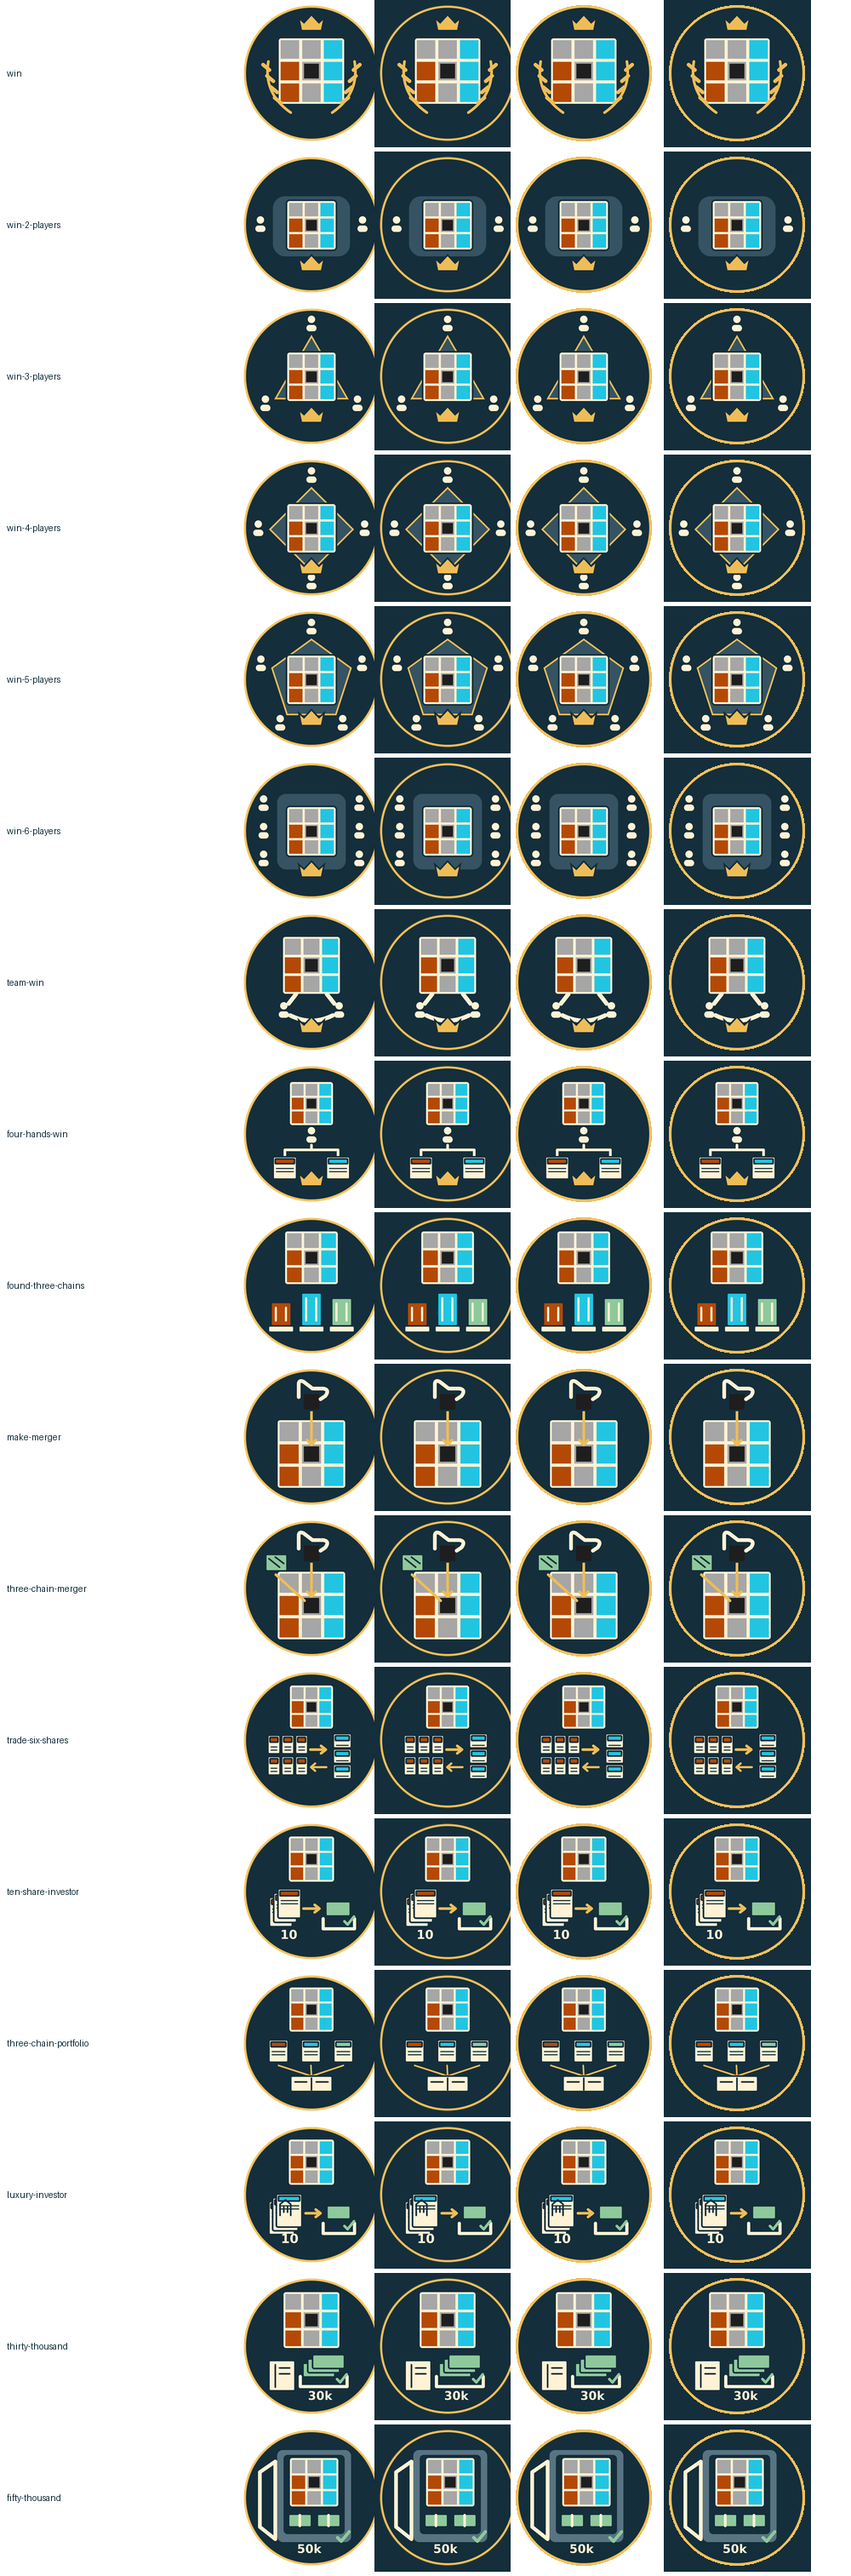
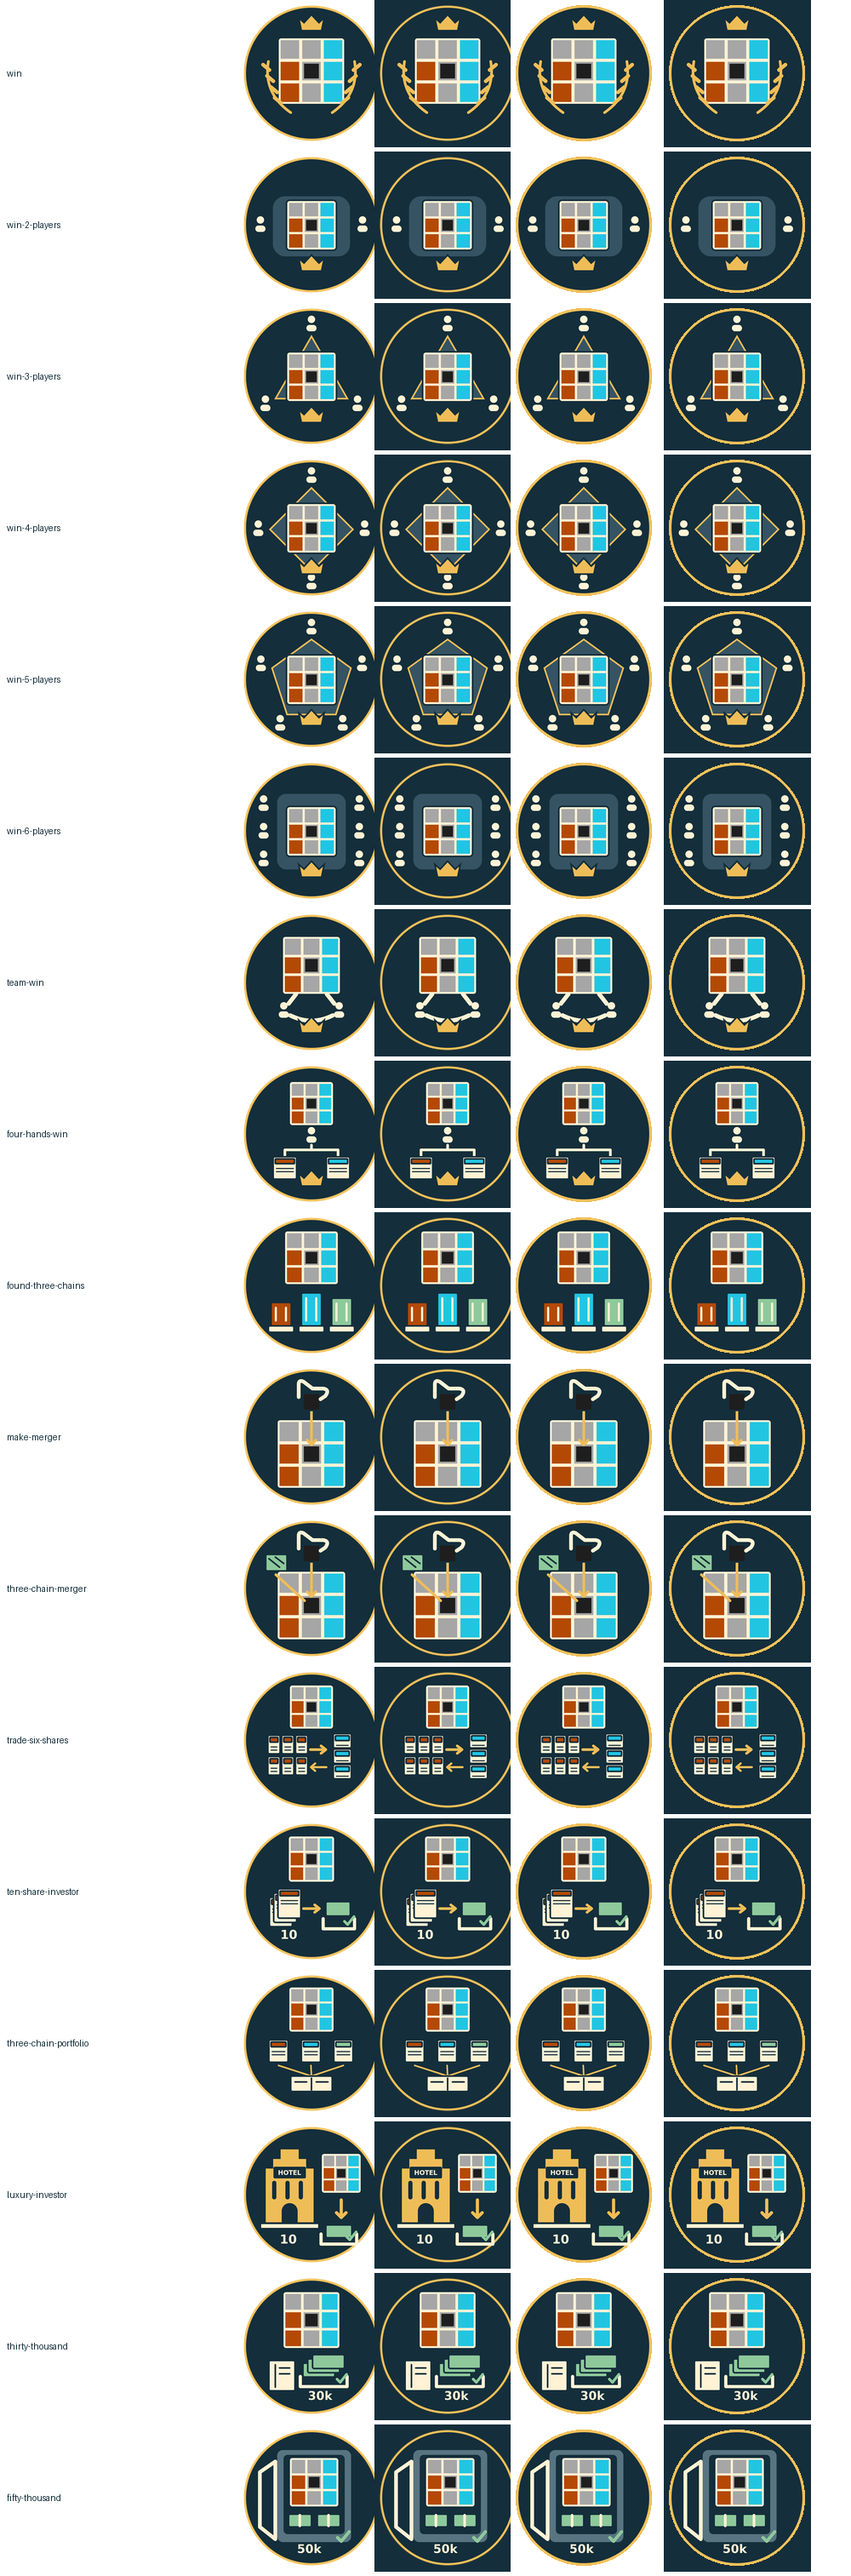
Distinguish luxury achievement with premium hotel and fully decode art checks

diff --git a/scripts/generate-achievement-art.py b/scripts/generate-achievement-art.py
@@ -93,10 +93,15 @@ ART['three-chain-portfolio'] = board(90, 27, 76)
 for x,c in [(48,ORANGE),(109,CYAN),(170,GREEN)]:
     ART['three-chain-portfolio'] += cert(x, 122, c, 36, 42) + path(f'M{x+18} 170 L128 190', GOLD, 3)
 ART['three-chain-portfolio'] += rect(89, 190, 78, 29, CREAM) + path('M128 194 V216 M97 201 H119 M137 201 H159', NAVY, 3)
-ART['luxury-investor'] = board(89, 28, 78)
-for i in range(3):
-    ART['luxury-investor'] += cert(48+i*7, 141-i*7, CYAN, 48, 62)
-ART['luxury-investor'] += path('M69 167 V146 L79 138 89 146 V167 M76 151 V161 M83 151 V161', NAVY, 3) + label('10', 88, 219) + arrow(117, 163, 28) + rect(157, 149, 44, 25, GREEN) + tray(150, 196, 59)
+# One monumental premium hotel (either luxury chain), not two required chains.
+# Stepped architecture dominates at 32px; no certificate-stack silhouette or crown.
+ART['luxury-investor'] = '<g data-premium-hotel="single"><path d="M40 182 V77 H54 V59 H68 V41 H106 V59 H120 V77 H134 V182Z" fill="'+GOLD+'" stroke="'+NAVY+'" stroke-width="4"/>'
+ART['luxury-investor'] += rect(58, 77, 58, 19, NAVY, 1) + label('HOTEL', 87, 91, 12)
+for x in [58, 83, 108]:
+    ART['luxury-investor'] += path(f'M{x} 106 V133', NAVY, 8)
+ART['luxury-investor'] += f'<path d="M72 182 V159 a15 15 0 0 1 30 0 V182Z" fill="{NAVY}"/>' + rect(32, 182, 110, 10, CREAM, 1) + '</g>'
+ART['luxury-investor'] += board(151, 55, 66) + path('M184 138 V171 m-9 -9 9 9 9 -9', GOLD, 6)
+ART['luxury-investor'] += label('10', 85, 220, 23) + rect(155, 185, 49, 24, GREEN) + tray(146, 216, 67)
 ART['thirty-thousand'] = board(79, 30, 98) + rect(48, 155, 49, 57, CREAM) + path('M60 163 V205 M68 169 H87 M68 180 H87', NAVY, 3)
 for i in range(3):
     ART['thirty-thousand'] += rect(112+i*9, 160-i*8, 60, 26, GREEN)

diff --git a/docs/admin/achievement-art/README.md b/docs/admin/achievement-art/README.md
@@ -37,8 +37,11 @@ licences); no font file is redistributed. The SVGs are editable source exports.
 - Trade: exactly six source certificates and three survivor certificates,
   with reciprocal exchange arrows (2:1 disposal, not optional stock swaps).
 - Final sales: certificates flow to a checked settlement tray. Diversification
-  instead joins three certificate types into one closing ledger. Luxury uses a
-  single premium hotel certificate stack, not a requirement for both chains.
+  instead joins three certificate types into one closing ledger. Luxury instead
+  has one dominant stepped premium hotel with tall windows and an arched entrance,
+  a separate board at upper right and a downward arrow into checked cash settlement.
+  This architectural silhouette replaces the similar certificate stack after review;
+  one hotel stands for Imperial OR Continental, never a requirement for both.
 - Cash: closed ledger/counting tray versus open treasury with bundled notes.
   Threshold numerals are supplementary; no victory decoration on economic awards.
 
@@ -59,8 +62,11 @@ pnpm --filter acquire-engine pack --pack-destination "$PWD/release/achievement-a
 For an extracted tarball, set `ACQUIRE_PACKED_WRAPPER` to its absolute
 `file:///.../package/dist/wrapper.js` URL and rerun the art test with its runtime
 seedrandom dependency installed. The test validates protocol schema, exact key
-coverage, hashes/dimensions, actual pictogram inclusion and byte-identical
-baseline definitions/evaluator. Existing 288 engine tests cover awards,
+coverage, explicit game/version/revision and source-pictogram hash assertions,
+asset hashes, full Pillow pixel decode/dimensions of all PNGs and contact sheets,
+actual pictogram inclusion and byte-identical baseline definitions/evaluator.
+Set `PYTHON` to the existing generator virtualenv's Python when running the Node
+test if Pillow is not installed on the default `python3`. Existing 288 engine tests cover awards,
 thresholds, team/four-hands ownership and engine regressions.
 
 `contact-32.png`, `contact-48.png`, `contact-64.png` and `contact-160.png` show
